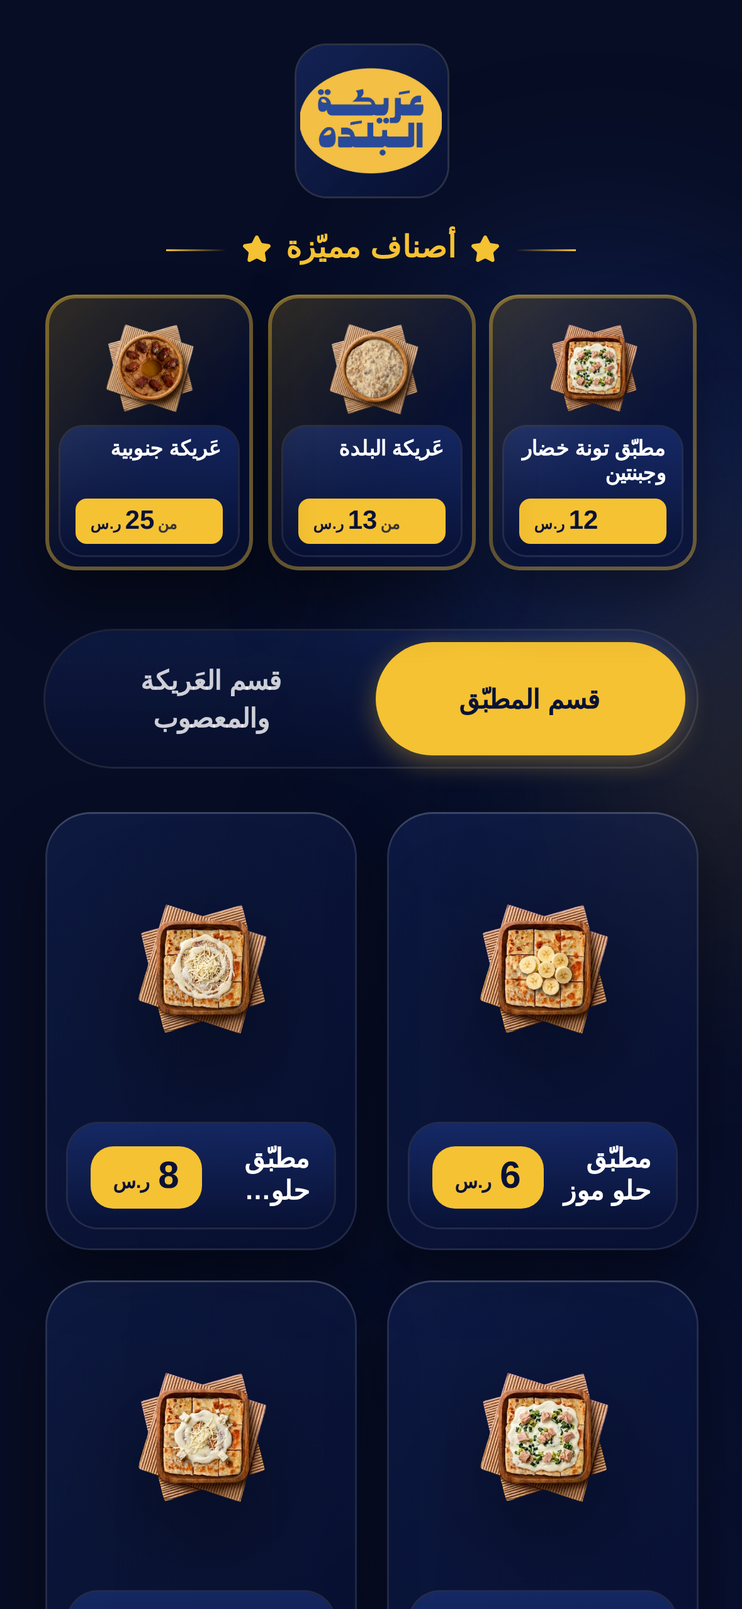
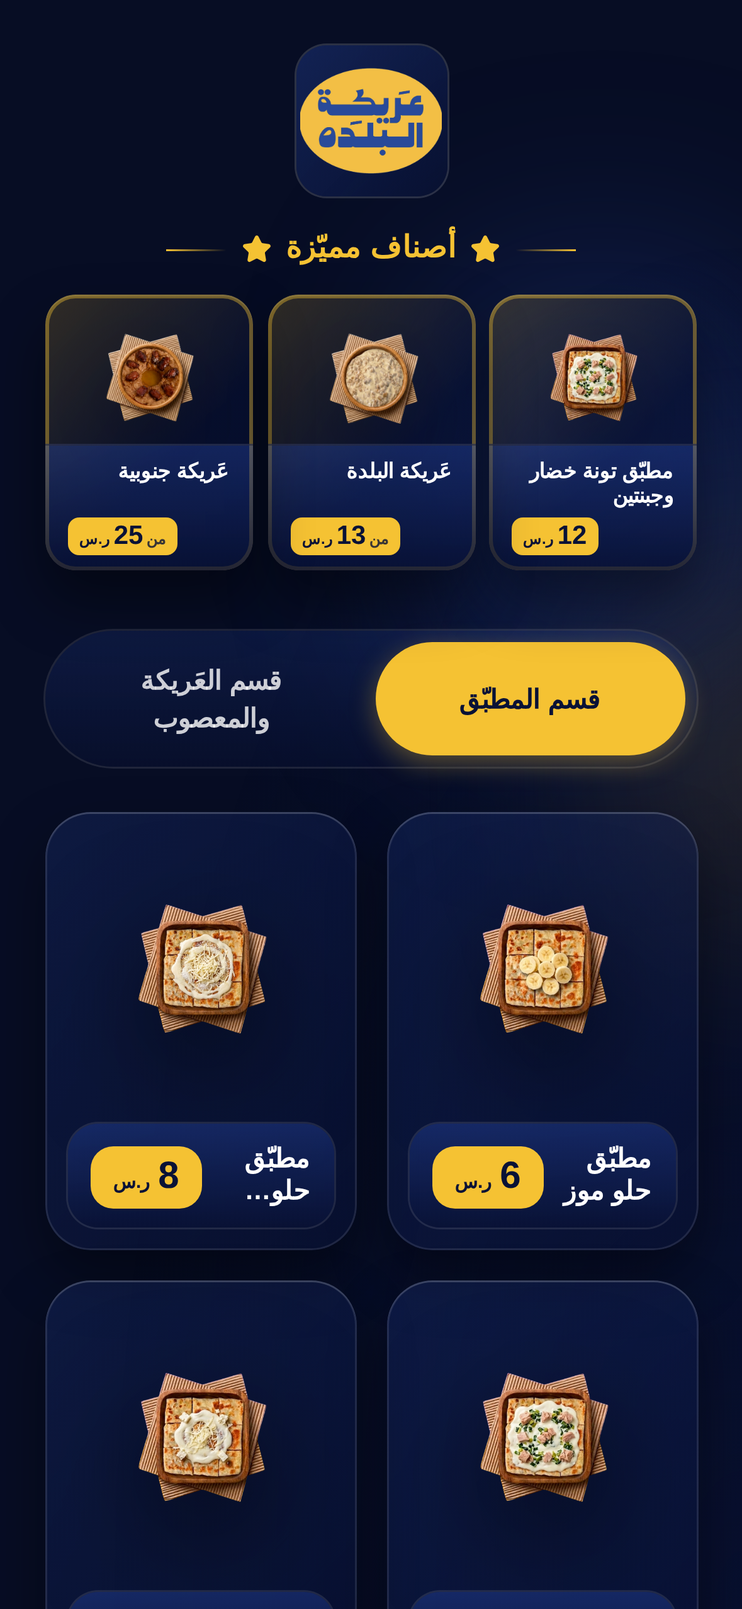
fix(web): featured strip now runs edge-to-edge of the card
User correctly diagnosed it: the dark-blue info strip had mx-2 + mb-2
margin, leaving a thin band of the card's outer gradient visible to
the left and right of the strip. On cards with shorter names that
gap was very obvious; on the longer name (مطبّق تونة خضار وجبنتين)
the wrapping text masked it.

Fix: dropped the horizontal/bottom margins on the strip so it sits
flush against the card's left, right and bottom edges. The strip's
bottom corners now use rounded-b-2xl / sm:rounded-b-3xl so they
exactly match the card's outer radius, and a thin top hairline
(border-t border-white/10) replaces the previous floating ring to
preserve the visual separation between image and strip.

Reverted the previous w-full price chip back to the original compact
self-end pill — the user explicitly asked to undo that change. The
chip stays small in the corner; the strip's full-bleed background is
what carries the visual weight now.

https://claude.ai/code/session_01Tjv9deCadTK9xL9Nd7REno

Changed region(s): [[0.0611, 0.1854, 0.9466, 0.3709]]

diff --git a/docs/assets/index-yAM1rfZ3.css b/docs/assets/index-yAM1rfZ3.css
@@ -1,0 +1,1 @@
+*,:before,:after{--tw-border-spacing-x: 0;--tw-border-spacing-y: 0;--tw-translate-x: 0;--tw-translate-y: 0;--tw-rotate: 0;--tw-skew-x: 0;--tw-skew-y: 0;--tw-scale-x: 1;--tw-scale-y: 1;--tw-pan-x: ;--tw-pan-y: ;--tw-pinch-zoom: ;--tw-scroll-snap-strictness: proximity;--tw-gradient-from-position: ;--tw-gradient-via-position: ;--tw-gradient-to-position: ;--tw-ordinal: ;--tw-slashed-zero: ;--tw-numeric-figure: ;--tw-numeric-spacing: ;--tw-numeric-fraction: ;--tw-ring-inset: ;--tw-ring-offset-width: 0px;--tw-ring-offset-color: #fff;--tw-ring-color: rgb(59 130 246 / .5);--tw-ring-offset-shadow: 0 0 #0000;--tw-ring-shadow: 0 0 #0000;--tw-shadow: 0 0 #0000;--tw-shadow-colored: 0 0 #0000;--tw-blur: ;--tw-brightness: ;--tw-contrast: ;--tw-grayscale: ;--tw-hue-rotate: ;--tw-invert: ;--tw-saturate: ;--tw-sepia: ;--tw-drop-shadow: ;--tw-backdrop-blur: ;--tw-backdrop-brightness: ;--tw-backdrop-contrast: ;--tw-backdrop-grayscale: ;--tw-backdrop-hue-rotate: ;--tw-backdrop-invert: ;--tw-backdrop-opacity: ;--tw-backdrop-saturate: ;--tw-backdrop-sepia: ;--tw-contain-size: ;--tw-contain-layout: ;--tw-contain-paint: ;--tw-contain-style: }::backdrop{--tw-border-spacing-x: 0;--tw-border-spacing-y: 0;--tw-translate-x: 0;--tw-translate-y: 0;--tw-rotate: 0;--tw-skew-x: 0;--tw-skew-y: 0;--tw-scale-x: 1;--tw-scale-y: 1;--tw-pan-x: ;--tw-pan-y: ;--tw-pinch-zoom: ;--tw-scroll-snap-strictness: proximity;--tw-gradient-from-position: ;--tw-gradient-via-position: ;--tw-gradient-to-position: ;--tw-ordinal: ;--tw-slashed-zero: ;--tw-numeric-figure: ;--tw-numeric-spacing: ;--tw-numeric-fraction: ;--tw-ring-inset: ;--tw-ring-offset-width: 0px;--tw-ring-offset-color: #fff;--tw-ring-color: rgb(59 130 246 / .5);--tw-ring-offset-shadow: 0 0 #0000;--tw-ring-shadow: 0 0 #0000;--tw-shadow: 0 0 #0000;--tw-shadow-colored: 0 0 #0000;--tw-blur: ;--tw-brightness: ;--tw-contrast: ;--tw-grayscale: ;--tw-hue-rotate: ;--tw-invert: ;--tw-saturate: ;--tw-sepia: ;--tw-drop-shadow: ;--tw-backdrop-blur: ;--tw-backdrop-brightness: ;--tw-backdrop-contrast: ;--tw-backdrop-grayscale: ;--tw-backdrop-hue-rotate: ;--tw-backdrop-invert: ;--tw-backdrop-opacity: ;--tw-backdrop-saturate: ;--tw-backdrop-sepia: ;--tw-contain-size: ;--tw-contain-layout: ;--tw-contain-paint: ;--tw-contain-style: }*,:before,:after{box-sizing:border-box;border-width:0;border-style:solid;border-color:#e5e7eb}:before,:after{--tw-content: ""}html,:host{line-height:1.5;-webkit-text-size-adjust:100%;-moz-tab-size:4;-o-tab-size:4;tab-size:4;font-family:ui-sans-serif,system-ui,sans-serif,"Apple Color Emoji","Segoe UI Emoji",Segoe UI Symbol,"Noto Color Emoji";font-feature-settings:normal;font-variation-settings:normal;-webkit-tap-highlight-color:transparent}body{margin:0;line-height:inherit}hr{height:0;color:inherit;border-top-width:1px}abbr:where([title]){-webkit-text-decoration:underline dotted;text-decoration:underline dotted}h1,h2,h3,h4,h5,h6{font-size:inherit;font-weight:inherit}a{color:inherit;text-decoration:inherit}b,strong{font-weight:bolder}code,kbd,samp,pre{font-family:ui-monospace,SFMono-Regular,Menlo,Monaco,Consolas,Liberation Mono,Courier New,monospace;font-feature-settings:normal;font-variation-settings:normal;font-size:1em}small{font-size:80%}sub,sup{font-size:75%;line-height:0;position:relative;vertical-align:baseline}sub{bottom:-.25em}sup{top:-.5em}table{text-indent:0;border-color:inherit;border-collapse:collapse}button,input,optgroup,select,textarea{font-family:inherit;font-feature-settings:inherit;font-variation-settings:inherit;font-size:100%;font-weight:inherit;line-height:inherit;letter-spacing:inherit;color:inherit;margin:0;padding:0}button,select{text-transform:none}button,input:where([type=button]),input:where([type=reset]),input:where([type=submit]){-webkit-appearance:button;background-color:transparent;background-image:none}:-moz-focusring{outline:auto}:-moz-ui-invalid{box-shadow:none}progress{vertical-align:baseline}::-webkit-inner-spin-button,::-webkit-outer-spin-button{height:auto}[type=search]{-webkit-appearance:textfield;outline-offset:-2px}::-webkit-search-decoration{-webkit-appearance:none}::-webkit-file-upload-button{-webkit-appearance:button;font:inherit}summary{display:list-item}blockquote,dl,dd,h1,h2,h3,h4,h5,h6,hr,figure,p,pre{margin:0}fieldset{margin:0;padding:0}legend{padding:0}ol,ul,menu{list-style:none;margin:0;padding:0}dialog{padding:0}textarea{resize:vertical}input::-moz-placeholder,textarea::-moz-placeholder{opacity:1;color:#9ca3af}input::placeholder,textarea::placeholder{opacity:1;color:#9ca3af}button,[role=button]{cursor:pointer}:disabled{cursor:default}img,svg,video,canvas,audio,iframe,embed,object{display:block;vertical-align:middle}img,video{max-width:100%;height:auto}[hidden]:where(:not([hidden=until-found])){display:none}html,body,#root{height:100%;width:100%}body{font-family:Cairo,sans-serif;background:#070d24;color:#fff;overflow:hidden;-webkit-tap-highlight-color:transparent}.container{width:100%}@media(min-width:640px){.container{max-width:640px}}@media(min-width:768px){.container{max-width:768px}}@media(min-width:1024px){.container{max-width:1024px}}@media(min-width:1280px){.container{max-width:1280px}}@media(min-width:1536px){.container{max-width:1536px}}.pointer-events-none{pointer-events:none}.visible{visibility:visible}.static{position:static}.fixed{position:fixed}.absolute{position:absolute}.relative{position:relative}.inset-0{top:0;right:0;bottom:0;left:0}.left-5{left:1.25rem}.top-5{top:1.25rem}.z-10{z-index:10}.z-50{z-index:50}.mx-3{margin-left:.75rem;margin-right:.75rem}.mx-auto{margin-left:auto;margin-right:auto}.my-5{margin-top:1.25rem;margin-bottom:1.25rem}.mb-3{margin-bottom:.75rem}.mt-1{margin-top:.25rem}.mt-6{margin-top:1.5rem}.mt-8{margin-top:2rem}.line-clamp-2{overflow:hidden;display:-webkit-box;-webkit-box-orient:vertical;-webkit-line-clamp:2}.flex{display:flex}.grid{display:grid}.aspect-\[3\/4\]{aspect-ratio:3/4}.aspect-square{aspect-ratio:1 / 1}.h-1{height:.25rem}.h-12{height:3rem}.h-14{height:3.5rem}.h-20{height:5rem}.h-4{height:1rem}.h-5{height:1.25rem}.h-\[45vh\]{height:45vh}.h-\[55vh\]{height:55vh}.h-full{height:100%}.h-px{height:1px}.max-h-full{max-height:100%}.min-h-\[2\.4em\]{min-height:2.4em}.w-12{width:3rem}.w-20{width:5rem}.w-4{width:1rem}.w-5{width:1.25rem}.w-8{width:2rem}.w-\[45vw\]{width:45vw}.w-\[55vw\]{width:55vw}.w-auto{width:auto}.w-full{width:100%}.min-w-0{min-width:0px}.max-w-2xl{max-width:42rem}.max-w-6xl{max-width:72rem}.max-w-7xl{max-width:80rem}.max-w-full{max-width:100%}.max-w-md{max-width:28rem}.flex-1{flex:1 1 0%}.flex-shrink-0,.shrink-0{flex-shrink:0}.scale-\[1\.04\]{--tw-scale-x: 1.04;--tw-scale-y: 1.04;transform:translate(var(--tw-translate-x),var(--tw-translate-y)) rotate(var(--tw-rotate)) skew(var(--tw-skew-x)) skewY(var(--tw-skew-y)) scaleX(var(--tw-scale-x)) scaleY(var(--tw-scale-y))}.transform{transform:translate(var(--tw-translate-x),var(--tw-translate-y)) rotate(var(--tw-rotate)) skew(var(--tw-skew-x)) skewY(var(--tw-skew-y)) scaleX(var(--tw-scale-x)) scaleY(var(--tw-scale-y))}.grid-cols-2{grid-template-columns:repeat(2,minmax(0,1fr))}.grid-cols-3{grid-template-columns:repeat(3,minmax(0,1fr))}.flex-col{flex-direction:column}.place-items-center{place-items:center}.items-end{align-items:flex-end}.items-center{align-items:center}.items-baseline{align-items:baseline}.items-stretch{align-items:stretch}.justify-center{justify-content:center}.justify-between{justify-content:space-between}.gap-0\.5{gap:.125rem}.gap-1{gap:.25rem}.gap-2{gap:.5rem}.gap-3{gap:.75rem}.gap-4{gap:1rem}.self-end{align-self:flex-end}.overflow-hidden{overflow:hidden}.overflow-y-auto{overflow-y:auto}.overscroll-none{overscroll-behavior:none}.rounded{border-radius:.25rem}.rounded-2xl{border-radius:1rem}.rounded-3xl{border-radius:1.5rem}.rounded-\[36px\]{border-radius:36px}.rounded-full{border-radius:9999px}.rounded-md{border-radius:.375rem}.rounded-xl{border-radius:.75rem}.rounded-b-2xl{border-bottom-right-radius:1rem;border-bottom-left-radius:1rem}.border{border-width:1px}.border-t{border-top-width:1px}.border-white\/10{border-color:#ffffff1a}.bg-\[\#070d24\]{--tw-bg-opacity: 1;background-color:rgb(7 13 36 / var(--tw-bg-opacity, 1))}.bg-black\/60{background-color:#0009}.bg-brand-yellow{--tw-bg-opacity: 1;background-color:rgb(245 194 51 / var(--tw-bg-opacity, 1))}.bg-white\/10{background-color:#ffffff1a}.bg-white\/15{background-color:#ffffff26}.bg-gradient-to-l{background-image:linear-gradient(to left,var(--tw-gradient-stops))}.bg-gradient-to-r{background-image:linear-gradient(to right,var(--tw-gradient-stops))}.from-brand-yellow{--tw-gradient-from: #f5c233 var(--tw-gradient-from-position);--tw-gradient-to: rgb(245 194 51 / 0) var(--tw-gradient-to-position);--tw-gradient-stops: var(--tw-gradient-from), var(--tw-gradient-to)}.to-transparent{--tw-gradient-to: transparent var(--tw-gradient-to-position)}.fill-brand-yellow{fill:#f5c233}.object-contain{-o-object-fit:contain;object-fit:contain}.p-1\.5{padding:.375rem}.p-3{padding:.75rem}.p-4{padding:1rem}.p-5{padding:1.25rem}.px-1\.5{padding-left:.375rem;padding-right:.375rem}.px-2{padding-left:.5rem;padding-right:.5rem}.px-3{padding-left:.75rem;padding-right:.75rem}.px-6{padding-left:1.5rem;padding-right:1.5rem}.py-0\.5{padding-top:.125rem;padding-bottom:.125rem}.py-1\.5{padding-top:.375rem;padding-bottom:.375rem}.py-2{padding-top:.5rem;padding-bottom:.5rem}.py-2\.5{padding-top:.625rem;padding-bottom:.625rem}.pb-1{padding-bottom:.25rem}.pb-10{padding-bottom:2.5rem}.pb-3{padding-bottom:.75rem}.pt-10{padding-top:2.5rem}.pt-3{padding-top:.75rem}.pt-4{padding-top:1rem}.pt-6{padding-top:1.5rem}.text-center{text-align:center}.text-right{text-align:right}.font-cairo{font-family:Cairo,sans-serif}.font-tajawal{font-family:Tajawal,sans-serif}.text-2xl{font-size:1.5rem;line-height:2rem}.text-3xl{font-size:1.875rem;line-height:2.25rem}.text-\[10px\]{font-size:10px}.text-\[11px\]{font-size:11px}.text-\[8px\]{font-size:8px}.text-\[9px\]{font-size:9px}.text-base{font-size:1rem;line-height:1.5rem}.text-sm{font-size:.875rem;line-height:1.25rem}.text-xl{font-size:1.25rem;line-height:1.75rem}.text-xs{font-size:.75rem;line-height:1rem}.font-black{font-weight:900}.font-bold{font-weight:700}.leading-\[1\.2\]{line-height:1.2}.leading-none{line-height:1}.leading-tight{line-height:1.25}.tracking-wide{letter-spacing:.025em}.text-brand-blueDeep{--tw-text-opacity: 1;color:rgb(9 18 54 / var(--tw-text-opacity, 1))}.text-brand-yellow{--tw-text-opacity: 1;color:rgb(245 194 51 / var(--tw-text-opacity, 1))}.text-white{--tw-text-opacity: 1;color:rgb(255 255 255 / var(--tw-text-opacity, 1))}.text-white\/80{color:#fffc}.antialiased{-webkit-font-smoothing:antialiased;-moz-osx-font-smoothing:grayscale}.opacity-80{opacity:.8}.shadow-\[0_4px_14px_rgba\(245\,194\,51\,0\.35\)\]{--tw-shadow: 0 4px 14px rgba(245,194,51,.35);--tw-shadow-colored: 0 4px 14px var(--tw-shadow-color);box-shadow:var(--tw-ring-offset-shadow, 0 0 #0000),var(--tw-ring-shadow, 0 0 #0000),var(--tw-shadow)}.outline-none{outline:2px solid transparent;outline-offset:2px}.ring{--tw-ring-offset-shadow: var(--tw-ring-inset) 0 0 0 var(--tw-ring-offset-width) var(--tw-ring-offset-color);--tw-ring-shadow: var(--tw-ring-inset) 0 0 0 calc(3px + var(--tw-ring-offset-width)) var(--tw-ring-color);box-shadow:var(--tw-ring-offset-shadow),var(--tw-ring-shadow),var(--tw-shadow, 0 0 #0000)}.ring-1{--tw-ring-offset-shadow: var(--tw-ring-inset) 0 0 0 var(--tw-ring-offset-width) var(--tw-ring-offset-color);--tw-ring-shadow: var(--tw-ring-inset) 0 0 0 calc(1px + var(--tw-ring-offset-width)) var(--tw-ring-color);box-shadow:var(--tw-ring-offset-shadow),var(--tw-ring-shadow),var(--tw-shadow, 0 0 #0000)}.ring-2{--tw-ring-offset-shadow: var(--tw-ring-inset) 0 0 0 var(--tw-ring-offset-width) var(--tw-ring-offset-color);--tw-ring-shadow: var(--tw-ring-inset) 0 0 0 calc(2px + var(--tw-ring-offset-width)) var(--tw-ring-color);box-shadow:var(--tw-ring-offset-shadow),var(--tw-ring-shadow),var(--tw-shadow, 0 0 #0000)}.ring-inset{--tw-ring-inset: inset}.ring-brand-yellow\/0{--tw-ring-color: rgb(245 194 51 / 0)}.ring-brand-yellow\/40{--tw-ring-color: rgb(245 194 51 / .4)}.ring-white\/10{--tw-ring-color: rgb(255 255 255 / .1)}.ring-white\/15{--tw-ring-color: rgb(255 255 255 / .15)}.ring-white\/20{--tw-ring-color: rgb(255 255 255 / .2)}.ring-white\/25{--tw-ring-color: rgb(255 255 255 / .25)}.blur{--tw-blur: blur(8px);filter:var(--tw-blur) var(--tw-brightness) var(--tw-contrast) var(--tw-grayscale) var(--tw-hue-rotate) var(--tw-invert) var(--tw-saturate) var(--tw-sepia) var(--tw-drop-shadow)}.drop-shadow-\[0_18px_28px_rgba\(0\,0\,0\,0\.55\)\]{--tw-drop-shadow: drop-shadow(0 18px 28px rgba(0,0,0,.55));filter:var(--tw-blur) var(--tw-brightness) var(--tw-contrast) var(--tw-grayscale) var(--tw-hue-rotate) var(--tw-invert) var(--tw-saturate) var(--tw-sepia) var(--tw-drop-shadow)}.drop-shadow-\[0_36px_60px_rgba\(0\,0\,0\,0\.55\)\]{--tw-drop-shadow: drop-shadow(0 36px 60px rgba(0,0,0,.55));filter:var(--tw-blur) var(--tw-brightness) var(--tw-contrast) var(--tw-grayscale) var(--tw-hue-rotate) var(--tw-invert) var(--tw-saturate) var(--tw-sepia) var(--tw-drop-shadow)}.filter{filter:var(--tw-blur) var(--tw-brightness) var(--tw-contrast) var(--tw-grayscale) var(--tw-hue-rotate) var(--tw-invert) var(--tw-saturate) var(--tw-sepia) var(--tw-drop-shadow)}.backdrop-blur{--tw-backdrop-blur: blur(8px);-webkit-backdrop-filter:var(--tw-backdrop-blur) var(--tw-backdrop-brightness) var(--tw-backdrop-contrast) var(--tw-backdrop-grayscale) var(--tw-backdrop-hue-rotate) var(--tw-backdrop-invert) var(--tw-backdrop-opacity) var(--tw-backdrop-saturate) var(--tw-backdrop-sepia);backdrop-filter:var(--tw-backdrop-blur) var(--tw-backdrop-brightness) var(--tw-backdrop-contrast) var(--tw-backdrop-grayscale) var(--tw-backdrop-hue-rotate) var(--tw-backdrop-invert) var(--tw-backdrop-opacity) var(--tw-backdrop-saturate) var(--tw-backdrop-sepia)}.backdrop-blur-3xl{--tw-backdrop-blur: blur(64px);-webkit-backdrop-filter:var(--tw-backdrop-blur) var(--tw-backdrop-brightness) var(--tw-backdrop-contrast) var(--tw-backdrop-grayscale) var(--tw-backdrop-hue-rotate) var(--tw-backdrop-invert) var(--tw-backdrop-opacity) var(--tw-backdrop-saturate) var(--tw-backdrop-sepia);backdrop-filter:var(--tw-backdrop-blur) var(--tw-backdrop-brightness) var(--tw-backdrop-contrast) var(--tw-backdrop-grayscale) var(--tw-backdrop-hue-rotate) var(--tw-backdrop-invert) var(--tw-backdrop-opacity) var(--tw-backdrop-saturate) var(--tw-backdrop-sepia)}.backdrop-blur-md{--tw-backdrop-blur: blur(12px);-webkit-backdrop-filter:var(--tw-backdrop-blur) var(--tw-backdrop-brightness) var(--tw-backdrop-contrast) var(--tw-backdrop-grayscale) var(--tw-backdrop-hue-rotate) var(--tw-backdrop-invert) var(--tw-backdrop-opacity) var(--tw-backdrop-saturate) var(--tw-backdrop-sepia);backdrop-filter:var(--tw-backdrop-blur) var(--tw-backdrop-brightness) var(--tw-backdrop-contrast) var(--tw-backdrop-grayscale) var(--tw-backdrop-hue-rotate) var(--tw-backdrop-invert) var(--tw-backdrop-opacity) var(--tw-backdrop-saturate) var(--tw-backdrop-sepia)}.backdrop-filter{-webkit-backdrop-filter:var(--tw-backdrop-blur) var(--tw-backdrop-brightness) var(--tw-backdrop-contrast) var(--tw-backdrop-grayscale) var(--tw-backdrop-hue-rotate) var(--tw-backdrop-invert) var(--tw-backdrop-opacity) var(--tw-backdrop-saturate) var(--tw-backdrop-sepia);backdrop-filter:var(--tw-backdrop-blur) var(--tw-backdrop-brightness) var(--tw-backdrop-contrast) var(--tw-backdrop-grayscale) var(--tw-backdrop-hue-rotate) var(--tw-backdrop-invert) var(--tw-backdrop-opacity) var(--tw-backdrop-saturate) var(--tw-backdrop-sepia)}.transition{transition-property:color,background-color,border-color,text-decoration-color,fill,stroke,opacity,box-shadow,transform,filter,backdrop-filter;transition-timing-function:cubic-bezier(.4,0,.2,1);transition-duration:.15s}.transition-\[box-shadow\]{transition-property:box-shadow;transition-timing-function:cubic-bezier(.4,0,.2,1);transition-duration:.15s}.transition-colors{transition-property:color,background-color,border-color,text-decoration-color,fill,stroke;transition-timing-function:cubic-bezier(.4,0,.2,1);transition-duration:.15s}.transition-transform{transition-property:transform;transition-timing-function:cubic-bezier(.4,0,.2,1);transition-duration:.15s}.duration-200{transition-duration:.2s}.ease-out{transition-timing-function:cubic-bezier(0,0,.2,1)}.will-change-transform{will-change:transform}.hover\:-translate-y-1:hover{--tw-translate-y: -.25rem;transform:translate(var(--tw-translate-x),var(--tw-translate-y)) rotate(var(--tw-rotate)) skew(var(--tw-skew-x)) skewY(var(--tw-skew-y)) scaleX(var(--tw-scale-x)) scaleY(var(--tw-scale-y))}.hover\:bg-white\/20:hover{background-color:#fff3}.hover\:text-white:hover{--tw-text-opacity: 1;color:rgb(255 255 255 / var(--tw-text-opacity, 1))}.active\:scale-90:active{--tw-scale-x: .9;--tw-scale-y: .9;transform:translate(var(--tw-translate-x),var(--tw-translate-y)) rotate(var(--tw-rotate)) skew(var(--tw-skew-x)) skewY(var(--tw-skew-y)) scaleX(var(--tw-scale-x)) scaleY(var(--tw-scale-y))}.active\:scale-\[0\.98\]:active{--tw-scale-x: .98;--tw-scale-y: .98;transform:translate(var(--tw-translate-x),var(--tw-translate-y)) rotate(var(--tw-rotate)) skew(var(--tw-skew-x)) skewY(var(--tw-skew-y)) scaleX(var(--tw-scale-x)) scaleY(var(--tw-scale-y))}.group:hover .group-hover\:ring-brand-yellow\/40{--tw-ring-color: rgb(245 194 51 / .4)}.group:hover .group-hover\:ring-brand-yellow\/70{--tw-ring-color: rgb(245 194 51 / .7)}@media(min-width:640px){.sm\:line-clamp-1{overflow:hidden;display:-webkit-box;-webkit-box-orient:vertical;-webkit-line-clamp:1}.sm\:h-5{height:1.25rem}.sm\:min-h-0{min-height:0px}.sm\:w-16{width:4rem}.sm\:w-5{width:1.25rem}.sm\:flex-row{flex-direction:row}.sm\:items-center{align-items:center}.sm\:justify-between{justify-content:space-between}.sm\:gap-1{gap:.25rem}.sm\:gap-2{gap:.5rem}.sm\:gap-3{gap:.75rem}.sm\:gap-4{gap:1rem}.sm\:self-auto{align-self:auto}.sm\:rounded-3xl{border-radius:1.5rem}.sm\:rounded-lg{border-radius:.5rem}.sm\:rounded-b-3xl{border-bottom-right-radius:1.5rem;border-bottom-left-radius:1.5rem}.sm\:p-7{padding:1.75rem}.sm\:px-2{padding-left:.5rem;padding-right:.5rem}.sm\:px-3{padding-left:.75rem;padding-right:.75rem}.sm\:py-1{padding-top:.25rem;padding-bottom:.25rem}.sm\:py-2\.5{padding-top:.625rem;padding-bottom:.625rem}.sm\:pb-4{padding-bottom:1rem}.sm\:pt-12{padding-top:3rem}.sm\:pt-4{padding-top:1rem}.sm\:text-\[9px\]{font-size:9px}.sm\:text-lg{font-size:1.125rem;line-height:1.75rem}.sm\:text-sm{font-size:.875rem;line-height:1.25rem}.sm\:text-xl{font-size:1.25rem;line-height:1.75rem}}@media(min-width:768px){.md\:order-1{order:1}.md\:order-2{order:2}.md\:aspect-auto{aspect-ratio:auto}.md\:h-16{height:4rem}.md\:h-24{height:6rem}.md\:h-full{height:100%}.md\:max-h-\[88vh\]{max-height:88vh}.md\:max-h-full{max-height:100%}.md\:w-24{width:6rem}.md\:w-auto{width:auto}.md\:max-w-full{max-width:100%}.md\:flex-1{flex:1 1 0%}.md\:grid-cols-3{grid-template-columns:repeat(3,minmax(0,1fr))}.md\:flex-row{flex-direction:row}.md\:items-stretch{align-items:stretch}.md\:gap-4{gap:1rem}.md\:gap-8{gap:2rem}.md\:p-10{padding:2.5rem}.md\:px-10{padding-left:2.5rem;padding-right:2.5rem}.md\:pt-0{padding-top:0}.md\:pt-8{padding-top:2rem}.md\:text-2xl{font-size:1.5rem;line-height:2rem}.md\:text-4xl{font-size:2.25rem;line-height:2.5rem}.md\:text-base{font-size:1rem;line-height:1.5rem}.md\:text-sm{font-size:.875rem;line-height:1.25rem}.md\:text-xl{font-size:1.25rem;line-height:1.75rem}}@media(min-width:1024px){.lg\:grid-cols-4{grid-template-columns:repeat(4,minmax(0,1fr))}}

diff --git a/docs/assets/index-0TNRcDmV.js b/docs/assets/index-0TNRcDmV.js
@@ -84,4 +84,4 @@ Error generating stack: `+a.message+`
  *
  * This source code is licensed under the ISC license.
  * See the LICENSE file in the root directory of this source tree.
- */const hA=Ig("X",[["path",{d:"M18 6 6 18",key:"1bl5f8"}],["path",{d:"m6 6 12 12",key:"d8bk6v"}]]),dA=({dish:i,onClose:l})=>H.jsx(pn.div,{initial:{opacity:0},animate:{opacity:1},exit:{opacity:0},transition:{duration:.25},onClick:l,className:"fixed inset-0 z-50 grid place-items-center bg-black/60 p-5 backdrop-blur-md",children:H.jsxs(pn.div,{initial:{y:60,scale:.95,opacity:0},animate:{y:0,scale:1,opacity:1},exit:{y:40,scale:.95,opacity:0},transition:{type:"spring",damping:24,stiffness:240},onClick:u=>u.stopPropagation(),className:"relative flex w-full max-w-6xl flex-col gap-4 overflow-hidden rounded-[36px] p-5 backdrop-blur-3xl sm:p-7 md:h-full md:max-h-[88vh] md:flex-row md:items-stretch md:gap-8 md:p-10",style:{background:"linear-gradient(135deg, rgba(47,85,196,0.30) 0%, rgba(9,18,54,0.55) 100%)",boxShadow:"0 36px 80px rgba(0, 0, 0, 0.55)",border:"1px solid rgba(255, 255, 255, 0.18)"},children:[H.jsx("button",{onClick:l,"aria-label":"إغلاق",className:"absolute left-5 top-5 z-10 grid h-12 w-12 place-items-center rounded-full bg-white/15 text-white ring-1 ring-white/25 backdrop-blur transition-transform hover:bg-white/20 active:scale-90",children:H.jsx(hA,{className:"h-5 w-5"})}),H.jsx("div",{className:"flex w-full justify-center pt-10 sm:pt-12 md:order-2 md:flex-1 md:pt-0",children:H.jsx(pn.img,{initial:{scale:.92,opacity:0},animate:{scale:1,opacity:1},transition:{delay:.1,type:"spring",damping:18,stiffness:110},src:i.image,alt:i.nameAr,className:"aspect-square w-full max-w-md object-contain drop-shadow-[0_36px_60px_rgba(0,0,0,0.55)] md:aspect-auto md:h-full md:max-h-full md:w-auto md:max-w-full"})}),H.jsxs("div",{className:"flex flex-col justify-center md:order-1 md:flex-1",dir:"rtl",children:[H.jsx(pn.h2,{initial:{x:24,opacity:0},animate:{x:0,opacity:1},transition:{delay:.2,type:"spring",damping:18,stiffness:120},className:"font-cairo font-black leading-tight text-white",style:{fontSize:"clamp(2.25rem, 4.5vw, 4rem)"},children:i.nameAr}),H.jsx("div",{className:"my-5 h-1 w-20 rounded-full bg-brand-yellow"}),i.prices&&i.prices.length>0?H.jsx(mA,{prices:i.prices}):H.jsx(pA,{price:i.price??"—"})]})]})}),mA=({prices:i})=>H.jsx("div",{className:"grid grid-cols-3 gap-3",children:i.map((l,u)=>H.jsxs(pn.div,{initial:{y:16,opacity:0},animate:{y:0,opacity:1},transition:{delay:.25+u*.07,type:"spring",damping:20,stiffness:140},className:"rounded-2xl bg-white/10 p-4 ring-1 ring-white/20 backdrop-blur",children:[H.jsx("div",{className:"font-cairo text-sm font-bold text-brand-yellow md:text-base",children:l.label}),H.jsxs("div",{className:"mt-1 flex items-baseline gap-1 font-cairo",children:[H.jsx("span",{className:"text-3xl font-black text-white md:text-4xl",children:l.value.split(" ")[0]}),H.jsx("span",{className:"text-xs font-bold text-brand-yellow md:text-sm",children:"ر.س"})]})]},l.label))}),pA=({price:i})=>{const[l,...u]=i.split(" ");return H.jsxs(pn.div,{initial:{scale:.9,opacity:0},animate:{scale:1,opacity:1},transition:{delay:.25,type:"spring",damping:18,stiffness:110},className:"flex items-baseline gap-2",children:[H.jsx("span",{className:"font-cairo font-black leading-none text-brand-yellow",style:{fontSize:"clamp(3rem, 7vw, 6rem)"},children:l}),H.jsx("span",{className:"font-cairo text-2xl font-bold text-brand-yellow md:text-4xl",children:u.join(" ")||"ر.س"})]})},yA=()=>H.jsx("header",{className:"flex flex-shrink-0 items-center justify-center px-6 pt-6 md:pt-8",children:H.jsx("div",{className:"grid h-20 w-20 place-items-center overflow-hidden rounded-2xl ring-1 ring-white/15 md:h-24 md:w-24",style:{background:"linear-gradient(135deg, rgba(47,85,196,0.30) 0%, rgba(9,18,54,0.65) 100%)"},children:H.jsx("img",{src:"logo.png",alt:"عَريكة البلدة",className:"h-14 w-auto md:h-16"})})}),gA=()=>H.jsxs("div",{className:"pointer-events-none absolute inset-0 overflow-hidden bg-[#070d24]",children:[H.jsx(pn.div,{className:"absolute h-[55vh] w-[55vw] rounded-full will-change-transform",style:{background:"radial-gradient(circle, rgba(47, 85, 196, 0.45), transparent 65%)",filter:"blur(45px)",transform:"translate3d(0,0,0)"},initial:{x:"15%",y:"5%"},animate:{x:["15%","35%","15%"],y:["5%","15%","5%"]},transition:{duration:50,ease:"easeInOut",repeat:1/0}}),H.jsx(pn.div,{className:"absolute h-[45vh] w-[45vw] rounded-full will-change-transform",style:{background:"radial-gradient(circle, rgba(245, 194, 51, 0.22), transparent 70%)",filter:"blur(50px)",transform:"translate3d(0,0,0)"},initial:{x:"60%",y:"55%"},animate:{x:["60%","40%","60%"],y:["55%","65%","55%"]},transition:{duration:60,ease:"easeInOut",repeat:1/0}}),H.jsx("div",{className:"absolute inset-0",style:{background:"radial-gradient(ellipse at bottom right, rgba(9,18,54,0.6), transparent 60%)"}})]}),vA=({active:i,categories:l,onChange:u})=>H.jsx("div",{className:"mx-auto grid w-full max-w-2xl grid-cols-2 gap-1 rounded-full p-1.5 ring-1 ring-white/10",style:{background:"linear-gradient(180deg, rgba(47,85,196,0.18) 0%, rgba(9,18,54,0.40) 100%)"},role:"tablist",children:l.map(o=>{const c=o.id===i;return H.jsx("button",{role:"tab","aria-selected":c,onClick:()=>u(o.id),className:`rounded-full px-3 py-2.5 text-center font-cairo text-sm font-bold transition-colors duration-200 ${c?"bg-brand-yellow text-brand-blueDeep shadow-[0_4px_14px_rgba(245,194,51,0.35)]":"text-white/80 hover:text-white"}`,children:o.labelAr},o.id)})}),bA=({dishes:i,onSelect:l})=>H.jsxs("section",{className:"mx-auto w-full max-w-7xl",children:[H.jsxs("div",{className:"flex items-center justify-center gap-2 pb-3 sm:gap-4 sm:pb-4",children:[H.jsx("span",{className:"h-px w-8 bg-gradient-to-l from-brand-yellow to-transparent sm:w-16"}),H.jsx(vy,{className:"h-4 w-4 fill-brand-yellow text-brand-yellow sm:h-5 sm:w-5",strokeWidth:2}),H.jsx("h2",{className:"font-cairo text-base font-black tracking-wide text-brand-yellow sm:text-xl md:text-2xl",children:"أصناف مميّزة"}),H.jsx(vy,{className:"h-4 w-4 fill-brand-yellow text-brand-yellow sm:h-5 sm:w-5",strokeWidth:2}),H.jsx("span",{className:"h-px w-8 bg-gradient-to-r from-brand-yellow to-transparent sm:w-16"})]}),H.jsx("div",{className:"grid grid-cols-3 gap-2 sm:gap-3 md:gap-4",children:i.map(u=>H.jsx(SA,{dish:u,onClick:()=>l(u)},u.image))})]}),SA=({dish:i,onClick:l})=>{const u=i.prices&&i.prices.length>1,o=Wg(i);return H.jsxs("button",{onClick:l,className:"group relative flex aspect-[3/4] flex-col overflow-hidden rounded-2xl text-right outline-none transition-transform duration-200 ease-out will-change-transform hover:-translate-y-1 active:scale-[0.98] sm:rounded-3xl",style:{background:"linear-gradient(135deg, rgba(245,194,51,0.18) 0%, rgba(9,18,54,0.65) 60%, rgba(9,18,54,0.65) 100%)",boxShadow:"0 16px 30px rgba(0, 0, 0, 0.45), inset 0 1px 0 rgba(255, 255, 255, 0.12)"},children:[H.jsx("div",{className:"pointer-events-none absolute inset-0 rounded-2xl ring-2 ring-inset ring-brand-yellow/40 sm:rounded-3xl"}),H.jsx("div",{className:"relative flex flex-1 items-center justify-center px-2 pb-1 pt-3 sm:pt-4",children:H.jsx("img",{src:i.image,alt:i.nameAr,decoding:"async",className:"max-h-full max-w-full object-contain drop-shadow-[0_18px_28px_rgba(0,0,0,0.55)]",style:{transform:"scale(1.06)"}})}),H.jsxs("div",{className:"relative mx-2 mb-2 flex flex-shrink-0 flex-col items-stretch gap-1.5 rounded-xl px-2 py-1.5 ring-1 ring-white/10 sm:mx-3 sm:mb-3 sm:flex-row sm:items-center sm:justify-between sm:gap-2 sm:rounded-2xl sm:px-3 sm:py-2",style:{background:"linear-gradient(180deg, rgba(47,85,196,0.32) 0%, rgba(9,18,54,0.70) 100%)"},children:[H.jsx("h3",{className:"line-clamp-2 min-h-[2.4em] min-w-0 flex-1 text-right font-cairo text-[11px] font-black leading-[1.2] sm:min-h-0 sm:line-clamp-1 sm:text-sm md:text-base",children:i.nameAr}),H.jsxs("div",{className:"flex w-full shrink-0 items-baseline justify-end gap-0.5 rounded-md bg-brand-yellow px-2 py-1 text-brand-blueDeep sm:w-auto sm:gap-1 sm:self-auto sm:rounded-lg sm:px-2 sm:py-1",children:[u?H.jsx("span",{className:"font-tajawal text-[8px] font-bold opacity-80 sm:text-[9px]",children:"من"}):null,H.jsx("span",{className:"font-cairo text-sm font-black leading-none sm:text-lg md:text-xl",children:o}),H.jsx("span",{className:"font-cairo text-[8px] font-bold sm:text-[9px]",children:"ر.س"})]})]}),H.jsx("div",{className:"pointer-events-none absolute inset-0 rounded-2xl ring-2 ring-brand-yellow/0 transition-[box-shadow] duration-200 group-hover:ring-brand-yellow/70 sm:rounded-3xl"})]})},TA=()=>{const[i,l]=G.useState("mutabbaq"),[u,o]=G.useState(null),c=G.useMemo(()=>i==="mutabbaq"?kg:Fg,[i]);return G.useEffect(()=>{Pg.forEach(d=>{const h=new Image;h.src=d.image})},[]),H.jsxs("div",{className:"relative h-full w-full overflow-hidden text-white",children:[H.jsx(gA,{}),H.jsxs("div",{className:"relative z-10 flex h-full flex-col",children:[H.jsx(yA,{}),H.jsxs("main",{className:"flex-1 overflow-y-auto px-6 pb-10 pt-4 md:px-10",children:[H.jsx(bA,{dishes:uA,onSelect:o}),H.jsx("div",{className:"mt-8",children:H.jsx(vA,{active:i,categories:lA,onChange:l})}),H.jsx(ap,{mode:"wait",children:H.jsx(pn.div,{initial:{opacity:0,y:8},animate:{opacity:1,y:0},exit:{opacity:0,y:-4},transition:{duration:.22,ease:"easeOut"},className:"mx-auto mt-6 grid w-full max-w-7xl grid-cols-2 gap-4 md:grid-cols-3 lg:grid-cols-4",children:c.map((d,h)=>H.jsx(oA,{dish:d,index:h,startingPrice:Wg(d),onClick:()=>o(d)},d.image))},i)})]})]}),H.jsx(ap,{children:u?H.jsx(dA,{dish:u,onClose:()=>o(null)}):null})]})};V1.createRoot(document.getElementById("root")).render(H.jsx(G.StrictMode,{children:H.jsx(TA,{})}));
+ */const hA=Ig("X",[["path",{d:"M18 6 6 18",key:"1bl5f8"}],["path",{d:"m6 6 12 12",key:"d8bk6v"}]]),dA=({dish:i,onClose:l})=>H.jsx(pn.div,{initial:{opacity:0},animate:{opacity:1},exit:{opacity:0},transition:{duration:.25},onClick:l,className:"fixed inset-0 z-50 grid place-items-center bg-black/60 p-5 backdrop-blur-md",children:H.jsxs(pn.div,{initial:{y:60,scale:.95,opacity:0},animate:{y:0,scale:1,opacity:1},exit:{y:40,scale:.95,opacity:0},transition:{type:"spring",damping:24,stiffness:240},onClick:u=>u.stopPropagation(),className:"relative flex w-full max-w-6xl flex-col gap-4 overflow-hidden rounded-[36px] p-5 backdrop-blur-3xl sm:p-7 md:h-full md:max-h-[88vh] md:flex-row md:items-stretch md:gap-8 md:p-10",style:{background:"linear-gradient(135deg, rgba(47,85,196,0.30) 0%, rgba(9,18,54,0.55) 100%)",boxShadow:"0 36px 80px rgba(0, 0, 0, 0.55)",border:"1px solid rgba(255, 255, 255, 0.18)"},children:[H.jsx("button",{onClick:l,"aria-label":"إغلاق",className:"absolute left-5 top-5 z-10 grid h-12 w-12 place-items-center rounded-full bg-white/15 text-white ring-1 ring-white/25 backdrop-blur transition-transform hover:bg-white/20 active:scale-90",children:H.jsx(hA,{className:"h-5 w-5"})}),H.jsx("div",{className:"flex w-full justify-center pt-10 sm:pt-12 md:order-2 md:flex-1 md:pt-0",children:H.jsx(pn.img,{initial:{scale:.92,opacity:0},animate:{scale:1,opacity:1},transition:{delay:.1,type:"spring",damping:18,stiffness:110},src:i.image,alt:i.nameAr,className:"aspect-square w-full max-w-md object-contain drop-shadow-[0_36px_60px_rgba(0,0,0,0.55)] md:aspect-auto md:h-full md:max-h-full md:w-auto md:max-w-full"})}),H.jsxs("div",{className:"flex flex-col justify-center md:order-1 md:flex-1",dir:"rtl",children:[H.jsx(pn.h2,{initial:{x:24,opacity:0},animate:{x:0,opacity:1},transition:{delay:.2,type:"spring",damping:18,stiffness:120},className:"font-cairo font-black leading-tight text-white",style:{fontSize:"clamp(2.25rem, 4.5vw, 4rem)"},children:i.nameAr}),H.jsx("div",{className:"my-5 h-1 w-20 rounded-full bg-brand-yellow"}),i.prices&&i.prices.length>0?H.jsx(mA,{prices:i.prices}):H.jsx(pA,{price:i.price??"—"})]})]})}),mA=({prices:i})=>H.jsx("div",{className:"grid grid-cols-3 gap-3",children:i.map((l,u)=>H.jsxs(pn.div,{initial:{y:16,opacity:0},animate:{y:0,opacity:1},transition:{delay:.25+u*.07,type:"spring",damping:20,stiffness:140},className:"rounded-2xl bg-white/10 p-4 ring-1 ring-white/20 backdrop-blur",children:[H.jsx("div",{className:"font-cairo text-sm font-bold text-brand-yellow md:text-base",children:l.label}),H.jsxs("div",{className:"mt-1 flex items-baseline gap-1 font-cairo",children:[H.jsx("span",{className:"text-3xl font-black text-white md:text-4xl",children:l.value.split(" ")[0]}),H.jsx("span",{className:"text-xs font-bold text-brand-yellow md:text-sm",children:"ر.س"})]})]},l.label))}),pA=({price:i})=>{const[l,...u]=i.split(" ");return H.jsxs(pn.div,{initial:{scale:.9,opacity:0},animate:{scale:1,opacity:1},transition:{delay:.25,type:"spring",damping:18,stiffness:110},className:"flex items-baseline gap-2",children:[H.jsx("span",{className:"font-cairo font-black leading-none text-brand-yellow",style:{fontSize:"clamp(3rem, 7vw, 6rem)"},children:l}),H.jsx("span",{className:"font-cairo text-2xl font-bold text-brand-yellow md:text-4xl",children:u.join(" ")||"ر.س"})]})},yA=()=>H.jsx("header",{className:"flex flex-shrink-0 items-center justify-center px-6 pt-6 md:pt-8",children:H.jsx("div",{className:"grid h-20 w-20 place-items-center overflow-hidden rounded-2xl ring-1 ring-white/15 md:h-24 md:w-24",style:{background:"linear-gradient(135deg, rgba(47,85,196,0.30) 0%, rgba(9,18,54,0.65) 100%)"},children:H.jsx("img",{src:"logo.png",alt:"عَريكة البلدة",className:"h-14 w-auto md:h-16"})})}),gA=()=>H.jsxs("div",{className:"pointer-events-none absolute inset-0 overflow-hidden bg-[#070d24]",children:[H.jsx(pn.div,{className:"absolute h-[55vh] w-[55vw] rounded-full will-change-transform",style:{background:"radial-gradient(circle, rgba(47, 85, 196, 0.45), transparent 65%)",filter:"blur(45px)",transform:"translate3d(0,0,0)"},initial:{x:"15%",y:"5%"},animate:{x:["15%","35%","15%"],y:["5%","15%","5%"]},transition:{duration:50,ease:"easeInOut",repeat:1/0}}),H.jsx(pn.div,{className:"absolute h-[45vh] w-[45vw] rounded-full will-change-transform",style:{background:"radial-gradient(circle, rgba(245, 194, 51, 0.22), transparent 70%)",filter:"blur(50px)",transform:"translate3d(0,0,0)"},initial:{x:"60%",y:"55%"},animate:{x:["60%","40%","60%"],y:["55%","65%","55%"]},transition:{duration:60,ease:"easeInOut",repeat:1/0}}),H.jsx("div",{className:"absolute inset-0",style:{background:"radial-gradient(ellipse at bottom right, rgba(9,18,54,0.6), transparent 60%)"}})]}),vA=({active:i,categories:l,onChange:u})=>H.jsx("div",{className:"mx-auto grid w-full max-w-2xl grid-cols-2 gap-1 rounded-full p-1.5 ring-1 ring-white/10",style:{background:"linear-gradient(180deg, rgba(47,85,196,0.18) 0%, rgba(9,18,54,0.40) 100%)"},role:"tablist",children:l.map(o=>{const c=o.id===i;return H.jsx("button",{role:"tab","aria-selected":c,onClick:()=>u(o.id),className:`rounded-full px-3 py-2.5 text-center font-cairo text-sm font-bold transition-colors duration-200 ${c?"bg-brand-yellow text-brand-blueDeep shadow-[0_4px_14px_rgba(245,194,51,0.35)]":"text-white/80 hover:text-white"}`,children:o.labelAr},o.id)})}),bA=({dishes:i,onSelect:l})=>H.jsxs("section",{className:"mx-auto w-full max-w-7xl",children:[H.jsxs("div",{className:"flex items-center justify-center gap-2 pb-3 sm:gap-4 sm:pb-4",children:[H.jsx("span",{className:"h-px w-8 bg-gradient-to-l from-brand-yellow to-transparent sm:w-16"}),H.jsx(vy,{className:"h-4 w-4 fill-brand-yellow text-brand-yellow sm:h-5 sm:w-5",strokeWidth:2}),H.jsx("h2",{className:"font-cairo text-base font-black tracking-wide text-brand-yellow sm:text-xl md:text-2xl",children:"أصناف مميّزة"}),H.jsx(vy,{className:"h-4 w-4 fill-brand-yellow text-brand-yellow sm:h-5 sm:w-5",strokeWidth:2}),H.jsx("span",{className:"h-px w-8 bg-gradient-to-r from-brand-yellow to-transparent sm:w-16"})]}),H.jsx("div",{className:"grid grid-cols-3 gap-2 sm:gap-3 md:gap-4",children:i.map(u=>H.jsx(SA,{dish:u,onClick:()=>l(u)},u.image))})]}),SA=({dish:i,onClick:l})=>{const u=i.prices&&i.prices.length>1,o=Wg(i);return H.jsxs("button",{onClick:l,className:"group relative flex aspect-[3/4] flex-col overflow-hidden rounded-2xl text-right outline-none transition-transform duration-200 ease-out will-change-transform hover:-translate-y-1 active:scale-[0.98] sm:rounded-3xl",style:{background:"linear-gradient(135deg, rgba(245,194,51,0.18) 0%, rgba(9,18,54,0.65) 60%, rgba(9,18,54,0.65) 100%)",boxShadow:"0 16px 30px rgba(0, 0, 0, 0.45), inset 0 1px 0 rgba(255, 255, 255, 0.12)"},children:[H.jsx("div",{className:"pointer-events-none absolute inset-0 rounded-2xl ring-2 ring-inset ring-brand-yellow/40 sm:rounded-3xl"}),H.jsx("div",{className:"relative flex flex-1 items-center justify-center px-2 pb-1 pt-3 sm:pt-4",children:H.jsx("img",{src:i.image,alt:i.nameAr,decoding:"async",className:"max-h-full max-w-full object-contain drop-shadow-[0_18px_28px_rgba(0,0,0,0.55)]",style:{transform:"scale(1.06)"}})}),H.jsxs("div",{className:"relative flex flex-shrink-0 flex-col items-stretch gap-1 rounded-b-2xl border-t border-white/10 px-3 py-2 sm:flex-row sm:items-center sm:justify-between sm:gap-2 sm:rounded-b-3xl sm:px-3 sm:py-2.5",style:{background:"linear-gradient(180deg, rgba(47,85,196,0.32) 0%, rgba(9,18,54,0.70) 100%)"},children:[H.jsx("h3",{className:"line-clamp-2 min-h-[2.4em] min-w-0 flex-1 text-right font-cairo text-[11px] font-black leading-[1.2] sm:min-h-0 sm:line-clamp-1 sm:text-sm md:text-base",children:i.nameAr}),H.jsxs("div",{className:"flex shrink-0 items-baseline gap-0.5 self-end rounded-md bg-brand-yellow px-1.5 py-0.5 text-brand-blueDeep sm:gap-1 sm:self-auto sm:rounded-lg sm:px-2 sm:py-1",children:[u?H.jsx("span",{className:"font-tajawal text-[8px] font-bold opacity-80 sm:text-[9px]",children:"من"}):null,H.jsx("span",{className:"font-cairo text-sm font-black leading-none sm:text-lg md:text-xl",children:o}),H.jsx("span",{className:"font-cairo text-[8px] font-bold sm:text-[9px]",children:"ر.س"})]})]}),H.jsx("div",{className:"pointer-events-none absolute inset-0 rounded-2xl ring-2 ring-brand-yellow/0 transition-[box-shadow] duration-200 group-hover:ring-brand-yellow/70 sm:rounded-3xl"})]})},TA=()=>{const[i,l]=G.useState("mutabbaq"),[u,o]=G.useState(null),c=G.useMemo(()=>i==="mutabbaq"?kg:Fg,[i]);return G.useEffect(()=>{Pg.forEach(d=>{const h=new Image;h.src=d.image})},[]),H.jsxs("div",{className:"relative h-full w-full overflow-hidden text-white",children:[H.jsx(gA,{}),H.jsxs("div",{className:"relative z-10 flex h-full flex-col",children:[H.jsx(yA,{}),H.jsxs("main",{className:"flex-1 overflow-y-auto px-6 pb-10 pt-4 md:px-10",children:[H.jsx(bA,{dishes:uA,onSelect:o}),H.jsx("div",{className:"mt-8",children:H.jsx(vA,{active:i,categories:lA,onChange:l})}),H.jsx(ap,{mode:"wait",children:H.jsx(pn.div,{initial:{opacity:0,y:8},animate:{opacity:1,y:0},exit:{opacity:0,y:-4},transition:{duration:.22,ease:"easeOut"},className:"mx-auto mt-6 grid w-full max-w-7xl grid-cols-2 gap-4 md:grid-cols-3 lg:grid-cols-4",children:c.map((d,h)=>H.jsx(oA,{dish:d,index:h,startingPrice:Wg(d),onClick:()=>o(d)},d.image))},i)})]})]}),H.jsx(ap,{children:u?H.jsx(dA,{dish:u,onClose:()=>o(null)}):null})]})};V1.createRoot(document.getElementById("root")).render(H.jsx(G.StrictMode,{children:H.jsx(TA,{})}));

diff --git a/web/src/components/FeaturedSection.tsx b/web/src/components/FeaturedSection.tsx
@@ -71,12 +71,12 @@ const FeaturedCard = ({dish, onClick}: {dish: Dish; onClick: () => void}) => {
         />
       </div>
 
-      {/* Bottom strip — name on top, full-width yellow price bar
-          beneath. Both rows fill the strip horizontally so cards 1
-          and 2 don't look "empty" on the left like they did when the
-          chip was tucked into a corner. */}
+      {/* Bottom strip — flush with the card edges (no horizontal /
+          bottom margin) so the dark blue band runs from the left edge
+          of the card to the right edge. The strip's rounded corners
+          mirror the card's outer radius. */}
       <div
-        className="relative mx-2 mb-2 flex flex-shrink-0 flex-col items-stretch gap-1.5 rounded-xl px-2 py-1.5 ring-1 ring-white/10 sm:mx-3 sm:mb-3 sm:flex-row sm:items-center sm:justify-between sm:gap-2 sm:rounded-2xl sm:px-3 sm:py-2"
+        className="relative flex flex-shrink-0 flex-col items-stretch gap-1 rounded-b-2xl border-t border-white/10 px-3 py-2 sm:flex-row sm:items-center sm:justify-between sm:gap-2 sm:rounded-b-3xl sm:px-3 sm:py-2.5"
         style={{
           background:
             'linear-gradient(180deg, rgba(47,85,196,0.32) 0%, rgba(9,18,54,0.70) 100%)',
@@ -85,10 +85,7 @@ const FeaturedCard = ({dish, onClick}: {dish: Dish; onClick: () => void}) => {
         <h3 className="line-clamp-2 min-h-[2.4em] min-w-0 flex-1 text-right font-cairo text-[11px] font-black leading-[1.2] sm:min-h-0 sm:line-clamp-1 sm:text-sm md:text-base">
           {dish.nameAr}
         </h3>
-
-        {/* Phone: full-width yellow bar with the price right-aligned.
-            Tablet+: shrinks back to a compact pill. */}
-        <div className="flex w-full shrink-0 items-baseline justify-end gap-0.5 rounded-md bg-brand-yellow px-2 py-1 text-brand-blueDeep sm:w-auto sm:gap-1 sm:self-auto sm:rounded-lg sm:px-2 sm:py-1">
+        <div className="flex shrink-0 items-baseline gap-0.5 self-end rounded-md bg-brand-yellow px-1.5 py-0.5 text-brand-blueDeep sm:gap-1 sm:self-auto sm:rounded-lg sm:px-2 sm:py-1">
           {isMulti ? (
             <span className="font-tajawal text-[8px] font-bold opacity-80 sm:text-[9px]">
               من

diff --git a/docs/index.html b/docs/index.html
@@ -13,8 +13,8 @@
       href="https://fonts.googleapis.com/css2?family=Cairo:wght@400;700;900&family=Tajawal:wght@400;500;700&display=swap"
       rel="stylesheet"
     />
-    <script type="module" crossorigin src="./assets/index-vkmOv1xR.js"></script>
-    <link rel="stylesheet" crossorigin href="./assets/index-LnJ6aihm.css">
+    <script type="module" crossorigin src="./assets/index-0TNRcDmV.js"></script>
+    <link rel="stylesheet" crossorigin href="./assets/index-yAM1rfZ3.css">
   </head>
   <body class="overscroll-none antialiased">
     <div id="root"></div>
